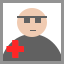
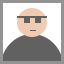
smaller guard radius

Changed region(s): [[0.0938, 0.625, 0.375, 0.9062]]

diff --git a/00-final-project/www/js/states/Game.js b/00-final-project/www/js/states/Game.js
@@ -11,7 +11,7 @@ Trump.Game = function (game)
 	this.money = 15;
 
 	this.maxLineLength = 1000;
-	this.guardFreeZoneRadius = 70;
+	this.guardFreeZoneRadius = 60;
 
 	this.stupidquote = [];
 	this.ouch = [];
